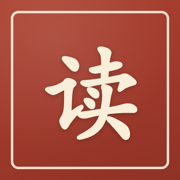
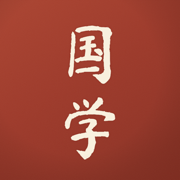
站徽重做：竖排白文「国学」+ 印泥质感，去掉边框
- 图标去掉边框线；字号 232→190，墨迹 190×400，上下留白 56，呼吸感更好
- 墨迹中心（getBBox 实测）对齐 256,256；字形过 feDisplacementMap 细碎墨边，
  配两层 feTurbulence 颗粒与径向压暗，模拟印泥纸纤维
- 字体：马善政毛笔楷书（SIL OFL 1.1，可商用）；源文件入 scripts/logo/（含导出说明），
  字体 5.8MB 不进仓库（.gitignore）
- maskable 内容缩到 90%，圆形裁切不切字
- favicon 与顶栏改单字「学」印章（16~38px 下双字必糊）；六本书 favicon 同套配色
- sw.js VERSION → guoxue-v3 清旧图标缓存

Changed region(s): [[0.25, 0.1389, 0.7778, 0.8889], [0.0556, 0.0556, 0.9444, 0.9444]]

diff --git a/scripts/logo/logo.html b/scripts/logo/logo.html
@@ -1,0 +1,59 @@
+<!doctype html>
+<html><head><meta charset="utf-8">
+<title>国学经典共读 · 站徽源文件</title>
+<style>
+  /* 本地渲染用字体（不随仓库分发，见 README 的下载命令）
+     商用授权：SIL OFL 1.1，可用于商标 / logo */
+  @font-face{font-family:'MSZ';src:url('../../.logo-build/mashanzheng.ttf') format('truetype')}
+  html,body{margin:0;padding:0;overflow:hidden;background:#eee}
+</style></head>
+<body>
+<!-- 512×512 视口下整页截图即得 icons/icon-512.png -->
+<svg width="512" height="512" viewBox="0 0 512 512" xmlns="http://www.w3.org/2000/svg">
+  <defs>
+    <linearGradient id="bg" x1="0" y1="0" x2="0.65" y2="1">
+      <stop offset="0" stop-color="#a83e2c"/>
+      <stop offset="0.52" stop-color="#9a3324"/>
+      <stop offset="1" stop-color="#8a2c1f"/>
+    </linearGradient>
+    <radialGradient id="vig" cx="0.42" cy="0.40" r="0.92">
+      <stop offset="0.5" stop-color="#000000" stop-opacity="0"/>
+      <stop offset="1" stop-color="#4a1108" stop-opacity="0.26"/>
+    </radialGradient>
+    <filter id="grain" x="0" y="0" width="100%" height="100%">
+      <feTurbulence type="fractalNoise" baseFrequency="0.9" numOctaves="2" seed="11" result="n"/>
+      <feColorMatrix in="n" type="matrix"
+        values="0 0 0 0 0.98  0 0 0 0 0.93  0 0 0 0 0.85  0 0 0 0.055 0"/>
+    </filter>
+    <filter id="grain2" x="0" y="0" width="100%" height="100%">
+      <feTurbulence type="fractalNoise" baseFrequency="0.35" numOctaves="3" seed="4" result="n"/>
+      <feColorMatrix in="n" type="matrix"
+        values="0 0 0 0 0.35  0 0 0 0 0.07  0 0 0 0 0.03  0 0 0 0.10 0"/>
+    </filter>
+    <filter id="bleed" x="-10%" y="-10%" width="120%" height="120%">
+      <feGaussianBlur stdDeviation="2.4"/>
+    </filter>
+    <filter id="ink" x="-10%" y="-10%" width="120%" height="120%">
+      <feTurbulence type="fractalNoise" baseFrequency="0.055" numOctaves="4" seed="7" result="t"/>
+      <feDisplacementMap in="SourceGraphic" in2="t" scale="3.2" xChannelSelector="R" yChannelSelector="G"/>
+    </filter>
+  </defs>
+
+  <rect width="512" height="512" fill="url(#bg)"/>
+  <rect width="512" height="512" filter="url(#grain2)"/>
+  <rect width="512" height="512" filter="url(#grain)"/>
+
+  <!-- 竖排「国学」：墨迹 190×400，左右留白 161，上下留白 56；墨迹中心正落在 256,256 -->
+  <g filter="url(#bleed)" font-family="MSZ" fill="#6d1d12" opacity="0.5">
+    <text x="256" y="222.7" font-size="190" text-anchor="middle">国</text>
+    <text x="256" y="432.7" font-size="190" text-anchor="middle">学</text>
+  </g>
+  <g filter="url(#ink)" font-family="MSZ" fill="#f8f0de">
+    <text x="256" y="222.7" font-size="190" text-anchor="middle">国</text>
+    <text x="256" y="432.7" font-size="190" text-anchor="middle">学</text>
+  </g>
+
+  <rect width="512" height="512" filter="url(#grain)" opacity="0.55"/>
+  <rect width="512" height="512" fill="url(#vig)"/>
+</svg>
+</body></html>

diff --git a/index.html b/index.html
@@ -38,7 +38,7 @@ a{color:inherit}
 .nav{position:sticky;top:0;z-index:60;background:var(--paper);background:color-mix(in srgb,var(--paper) 92%,transparent);backdrop-filter:blur(10px);border-bottom:1px solid var(--line)}
 .nav-inner{max-width:1100px;margin:0 auto;padding:0 24px;height:58px;display:flex;align-items:center;justify-content:space-between;gap:14px}
 .nav-brand{font-family:"STKaiti","KaiTi","Kaiti SC",serif;font-size:21px;letter-spacing:3px;text-decoration:none;display:inline-flex;align-items:center;gap:9px}
-.brand-mark{width:34px;height:34px;border-radius:7px;flex:none;display:block;box-shadow:0 1px 4px rgba(141,74,52,.22)}
+.brand-mark{width:38px;height:38px;border-radius:8px;flex:none;display:block;box-shadow:0 1px 4px rgba(141,74,52,.22)}
 .brand-txt{display:inline-flex;align-items:baseline;gap:8px;white-space:nowrap}
 .nav-brand small{font-family:inherit;font-size:10.5px;letter-spacing:2px;color:var(--muted)}
 .nav-right{display:flex;align-items:center;gap:8px}
@@ -167,7 +167,7 @@ html[data-theme="dark"] .card-seal{color:#201c17}
 
 <header class="nav">
   <div class="nav-inner">
-    <a class="nav-brand" href="/"><img class="brand-mark" src="/favicon.svg" width="34" height="34" alt=""><span class="brand-txt">国学共读<small>GUOXUE</small></span></a>
+    <a class="nav-brand" href="/"><img class="brand-mark" src="/favicon.svg" width="38" height="38" alt=""><span class="brand-txt">国学共读<small>GUOXUE</small></span></a>
     <div class="nav-right">
       <span class="nav-meta" id="navMeta">六部经典 · 一日一章</span>
       <details class="pal-pick" id="palPick">

diff --git a/sw.js b/sw.js
@@ -1,6 +1,6 @@
 /* 国学经典共读 · Service Worker
    策略：外壳预缓存；页面与数据网络优先（改版即时可见）；静态资源缓存优先 + 后台更新 */
-var VERSION = 'guoxue-v1';
+var VERSION = 'guoxue-v3';
 
 var SHELL = [
   '/',

diff --git a/scripts/logo/README.md b/scripts/logo/README.md
@@ -1,0 +1,22 @@
+# 站徽源文件
+
+`logo.html` 是站徽的唯一真源：512×512 的 SVG，用浏览器打开后按 512×512 视口截图即可导出 `icons/icon-512.png`。
+
+- 字体：**马善政毛笔楷书 Ma Shan Zheng**，SIL Open Font License 1.1，可商用（含商标/logo）
+- 视觉：朱砂印泥底（`#a83e2c → #8a2c1f` 微渐变）+ 白文楷书「国学」竖排；无边框
+- 质感：两层 `feTurbulence` 颗粒（一深一浅）+ 字形 `feDisplacementMap` 细碎墨边 + 径向压暗
+- 派生：`maskable-512.png` 是把字形内容缩到 84%（安全区）后重新导出
+
+## 重新导出
+
+```bash
+# 字体不随仓库提交（5.8 MB），首次导出前下载：
+mkdir -p .logo-build
+curl -L -o .logo-build/mashanzheng.ttf \
+  https://raw.githubusercontent.com/google/fonts/main/ofl/mashanzheng/MaShanZheng-Regular.ttf
+
+# 起个静态服务，浏览器打开 scripts/logo/logo.html，按 512×512 视口截图：
+python3 -m http.server 8000
+```
+
+导出后用 `sips -z 192 192`、`sips -z 180 180` 生成 `icon-192.png` 与 `apple-touch-icon.png`。

diff --git a/README.md b/README.md
@@ -109,8 +109,9 @@ python3 -m http.server 8080
 |---|---|
 | `manifest.webmanifest` | 名称、`standalone` 显示、主题色、三档图标（192 / 512 / maskable） |
 | `sw.js` | 预缓存外壳与全部书目；运行时按类型分流 |
-| `icons/` | `icon-192.png` / `icon-512.png`（含内框印章）、`maskable-512.png`（留安全区）、`apple-touch-icon.png` |
-| `favicon.svg` | 站徽：朱砂方章 + 白文「读」（小尺寸去掉内框，保证 16px 可辨） |
+| `icons/` | `icon-192.png` / `icon-512.png`（朱砂印泥底 + 白文「国学」竖排，无边框；墨迹 190×400，四周留白 56 起）、`maskable-512.png`（内容缩到 90% 安全区）、`apple-touch-icon.png` |
+| `favicon.svg` | 标签页与顶栏用：同一朱砂底 + 单字「学」——16～38px 下双字必糊，故这里只留一字 |
+| `scripts/logo/` | 站徽源文件（SVG + 导出说明），字体用马善政毛笔楷书，OFL 授权可商用 |
 
 缓存策略：
 
